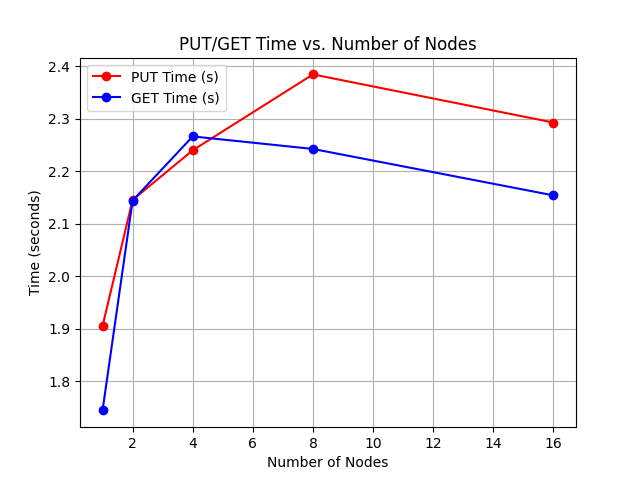
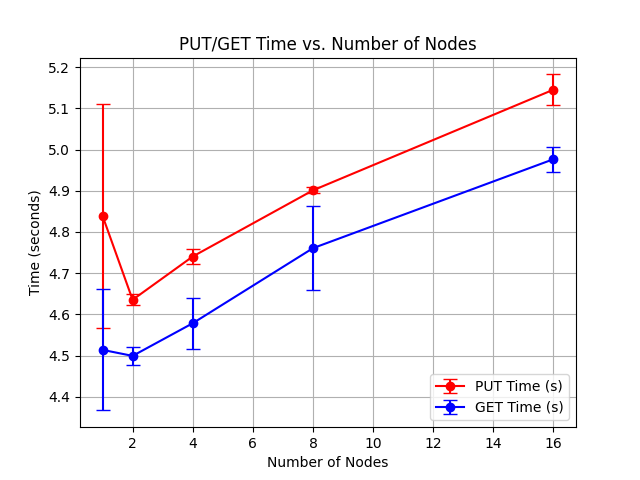
UPT: Adding standard deviation to the graph

diff --git a/src/experiment.py b/src/experiment.py
@@ -1,9 +1,8 @@
 import time
 import requests
-import random
-import string
 import sys
 import matplotlib.pyplot as plt
+import statistics
 
 
 def perform_put_requests(node_address, num_operations):
@@ -67,37 +66,30 @@ def run_experiment(node_addresses, num_operations):
 
     return avg_put_time, avg_get_time
 
-def plot_results(node_counts, put_times, get_times):
-    """Plots the elapsed time for PUT and GET operations vs. the number of nodes."""
-  
-
-if __name__ == "__main__":
-    if len(sys.argv) < 3:
-        print("Usage: python experiment.py <node1> <node2> ...")
-        sys.exit(1)
-
-    node_addresses = sys.argv[1:-1]
-    num_operations = 100
-
-    print(f"Running experiment with nodes: {node_addresses} and {num_operations} operations.")
-
-    # Run the experiment x number of nodes (1, 2, 4, 8 or 16)
-    node_counts = [1, 2, 4, 8, 16]
-    
-    # initializing PUT and GET times
+def run_trials(node_addresses, num_operations, num_trials):
+    """
+    Run the experiment multiple times to calculate mean and standard deviation.
+    """
     put_times = []
     get_times = []
 
-    for node_count in node_counts:
-        print(f"Testing with {node_count} node(s)...")
-        selected_nodes = node_addresses[:node_count]  # Select the number of nodes
-        put_time, get_time = run_experiment(selected_nodes, num_operations)
+    for _ in range(num_trials):
+        put_time, get_time = run_experiment(node_addresses, num_operations)
         put_times.append(put_time)
         get_times.append(get_time)
 
-    # Plotting the results with Matplotlib 
-    plt.plot(node_counts, put_times, 'r-o', label='PUT Time (s)')
-    plt.plot(node_counts, get_times, 'b-o', label='GET Time (s)')
+    # Calculate mean and standard deviation
+    mean_put_time = statistics.mean(put_times)
+    mean_get_time = statistics.mean(get_times)
+    stdev_put_time = statistics.stdev(put_times)
+    stdev_get_time = statistics.stdev(get_times)
+
+    return mean_put_time, mean_get_time, stdev_put_time, stdev_get_time
+
+def plot_results(node_counts, put_times, get_times, put_stdevs, get_stdevs):
+    """Plots the elapsed time for PUT and GET operations vs. the number of nodes with error bars."""
+    plt.errorbar(node_counts, put_times, yerr=put_stdevs, fmt='r-o', label='PUT Time (s)', capsize=5)
+    plt.errorbar(node_counts, get_times, yerr=get_stdevs, fmt='b-o', label='GET Time (s)', capsize=5)
     plt.xlabel("Number of Nodes")
     plt.ylabel("Time (seconds)")
     plt.title("PUT/GET Time vs. Number of Nodes")
@@ -106,3 +98,36 @@ if __name__ == "__main__":
     plt.savefig("time_vs_nodes_plot.png")
     plt.show()
     print("Plot saved as time_vs_nodes_plot.png")
+
+
+if __name__ == "__main__":
+    if len(sys.argv) < 3:
+        print("Usage: python experiment.py <node1> <node2> ...")
+        sys.exit(1)
+
+    node_addresses = sys.argv[1:-1]
+    num_operations = 200
+    num_trials = 3  # Run 3 trials for each node count to calculate standard deviation
+
+    print(f"Running experiment with nodes: {node_addresses} and {num_operations} operations.")
+
+    # Run the experiment for x number of nodes (1, 2, 4, 8, 16)
+    node_counts = [1, 2, 4, 8, 16]
+    
+    # Initializing PUT and GET times and standard deviations
+    put_times = []
+    get_times = []
+    put_stdevs = []
+    get_stdevs = []
+
+    for node_count in node_counts:
+        print(f"Testing with {node_count} node(s)...")
+        selected_nodes = node_addresses[:node_count]  # Select the number of nodes
+        mean_put_time, mean_get_time, stdev_put_time, stdev_get_time = run_trials(selected_nodes, num_operations, num_trials)
+        put_times.append(mean_put_time)
+        get_times.append(mean_get_time)
+        put_stdevs.append(stdev_put_time)
+        get_stdevs.append(stdev_get_time)
+
+    # Plotting the results with Matplotlib, including error bars
+    plot_results(node_counts, put_times, get_times, put_stdevs, get_stdevs)
